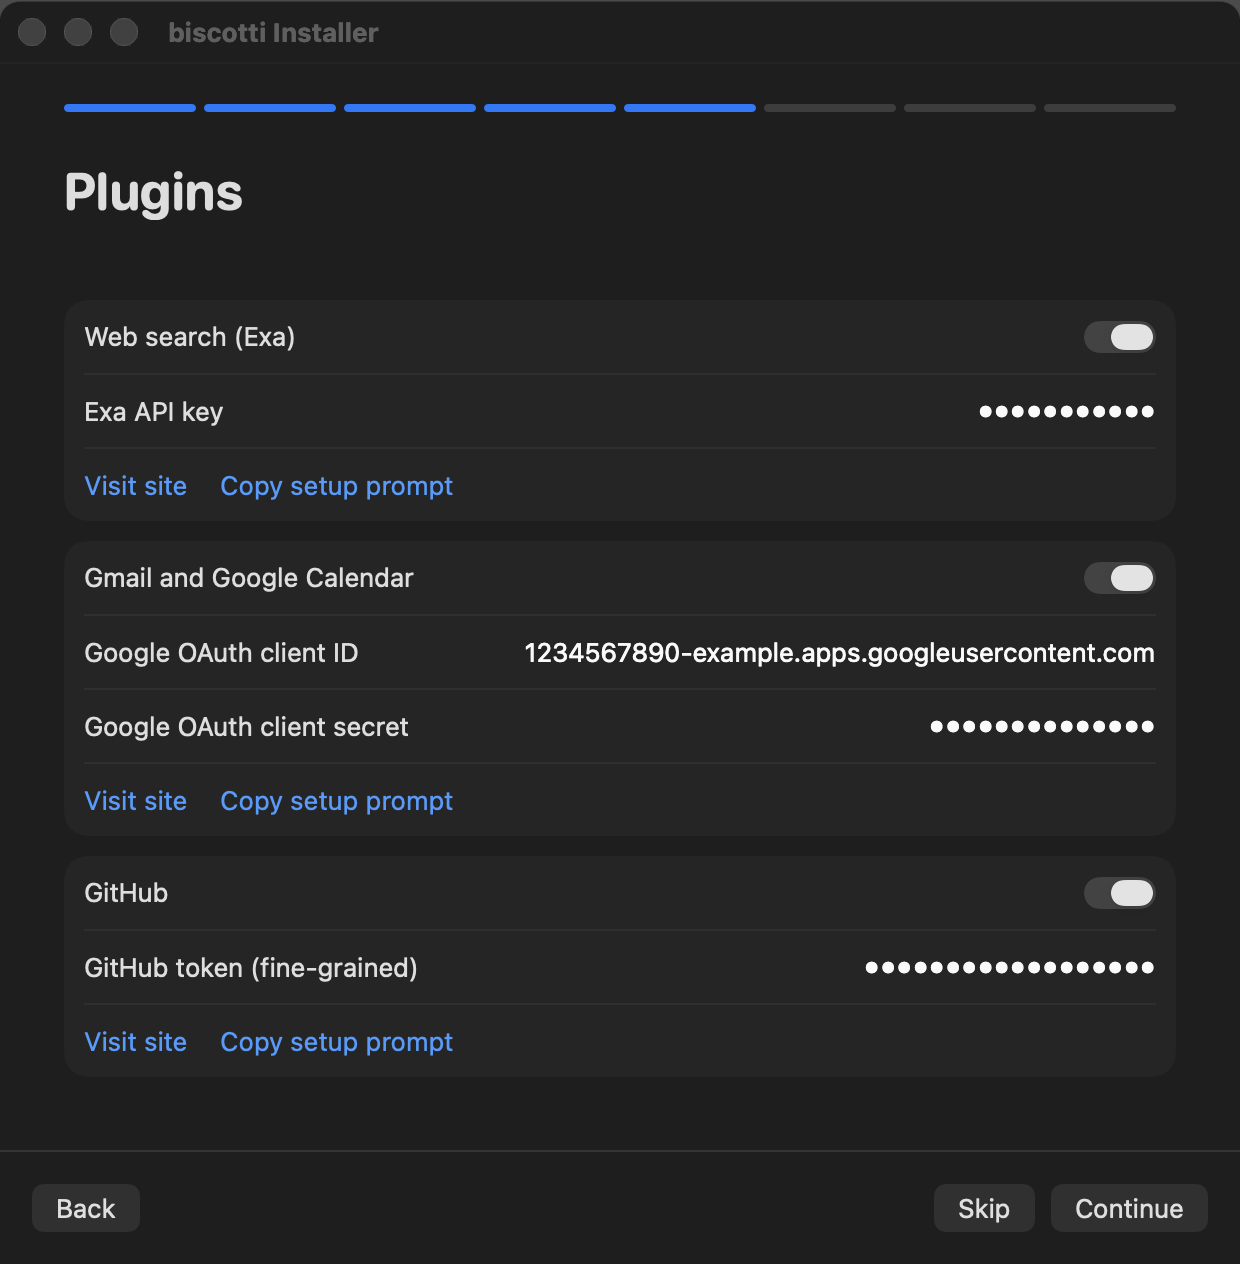
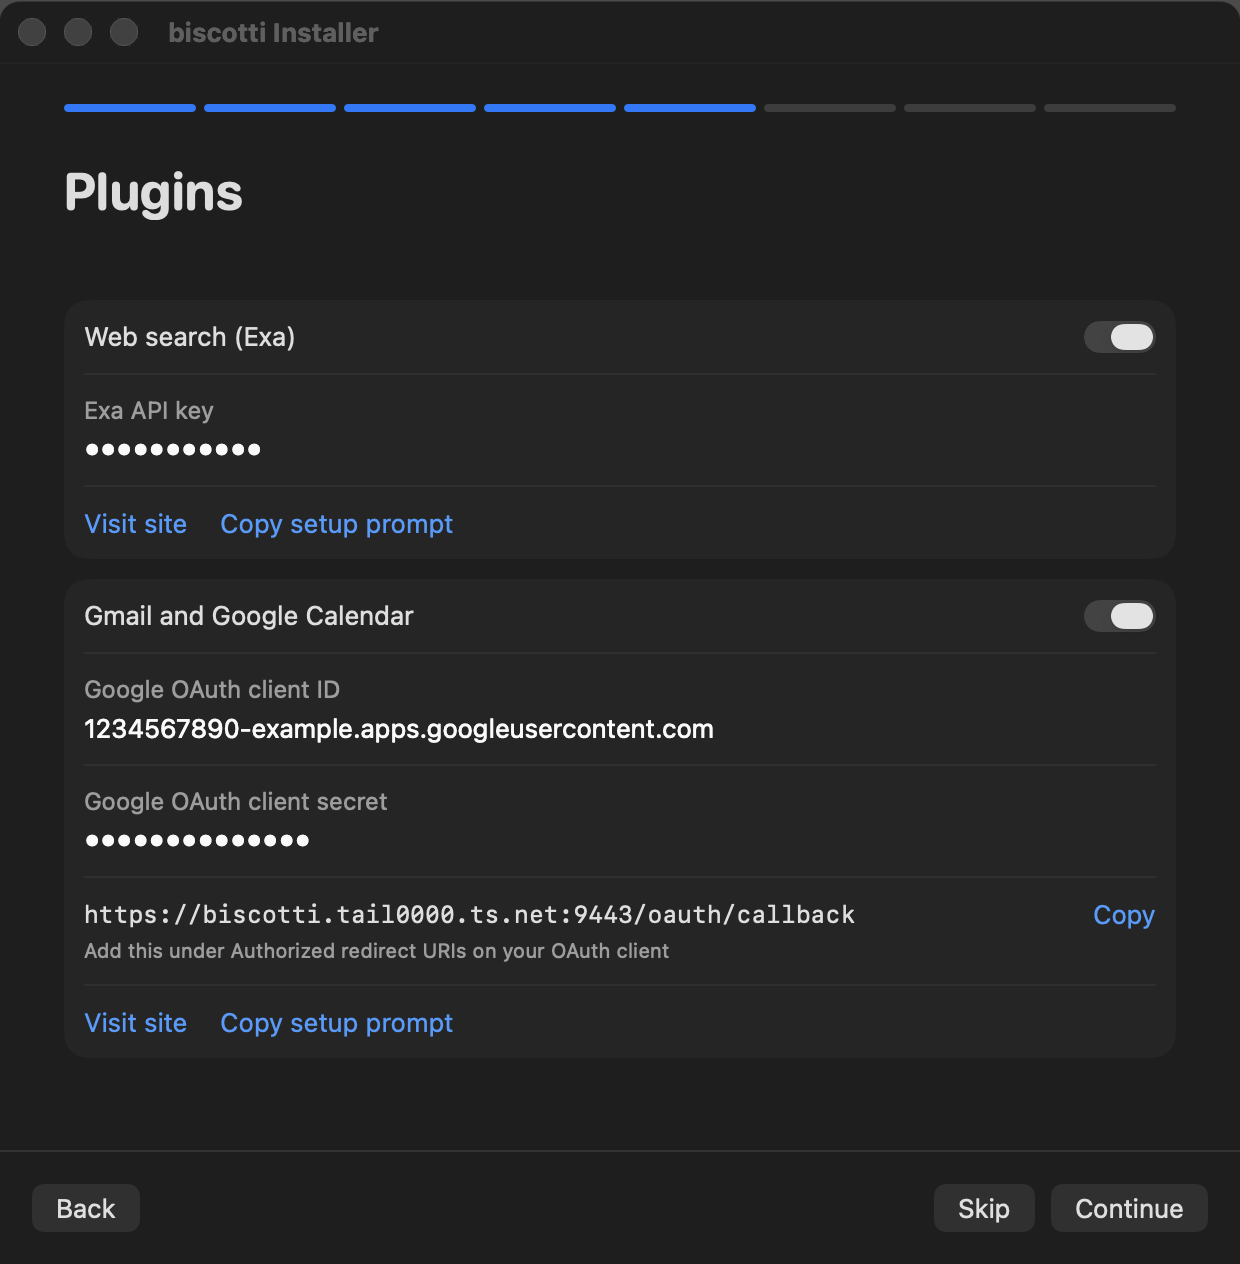
installer: fields type left to right; no email; natural typing gif

diff --git a/installers/setup/Sources/BiscottiInstaller/App.swift b/installers/setup/Sources/BiscottiInstaller/App.swift
@@ -65,12 +65,12 @@ enum Step {
 /// The files the app can open: an image or a public key.
 enum Import { case image, sshKey }
 
-/// The phone numbers and emails on the macOS "Me" card, once the user allows Contacts access.
-func meCard() async -> (phones: [String], emails: [String]) {
+/// The phone numbers on the macOS "Me" card, once the user allows Contacts access.
+func meCard() async -> [String] {
     let store = CNContactStore()
-    let keys = [CNContactPhoneNumbersKey, CNContactEmailAddressesKey] as [CNKeyDescriptor]
-    guard (try? await store.requestAccess(for: .contacts)) == true, let me = try? store.unifiedMeContactWithKeys(toFetch: keys) else { return ([], []) }
-    return (me.phoneNumbers.map(\.value.stringValue), me.emailAddresses.map { $0.value as String })
+    let keys = [CNContactPhoneNumbersKey] as [CNKeyDescriptor]
+    guard (try? await store.requestAccess(for: .contacts)) == true, let me = try? store.unifiedMeContactWithKeys(toFetch: keys) else { return [] }
+    return me.phoneNumbers.map(\.value.stringValue)
 }
 
 /// One step per screen: the target, the settings a few at a time, a review, then the target's own install steps.
@@ -87,7 +87,7 @@ struct InstallerView: View {
     @State private var downloadError: String?
     @State private var disks = removableDisks()
     @State private var disk: Disk?
-    @State private var me: (phones: [String], emails: [String]) = ([], [])
+    @State private var myPhones: [String] = []
     @State private var importing = false
     @State private var importTarget = Import.image
     @State private var pasting = false
@@ -233,7 +233,7 @@ struct InstallerView: View {
                     Link("Install Tailscale", destination: Tailscale.downloadMac)
                 }
             }
-            TextField("biscotti's name on your tailnet", text: $settings.tailscaleName)
+            field("biscotti's name on your tailnet", $settings.tailscaleName)
             LabeledContent("On your phone") {
                 if let phone {
                     Label(phone, systemImage: "checkmark.circle.fill")
@@ -274,14 +274,14 @@ struct InstallerView: View {
     private var wifi: some View {
         Form {
             HStack {
-                TextField("Network", text: $settings.wifiName)
+                field("Network", $settings.wifiName)
                 if !networks.isEmpty {
                     Menu("Saved") { ForEach(networks, id: \.self) { name in Button(name) { settings.wifiName = name } } }
                         .menuStyle(.borderlessButton).fixedSize()
                 }
             }
             HStack {
-                TextField("Password", text: $settings.wifiPassword)
+                field("Password", $settings.wifiPassword)
                 if settings.wifiPassword.isEmpty {
                     // Wi-Fi passwords live in the System keychain, so macOS asks for the Mac's password; cancel leaves typing.
                     Button("From Keychain") { settings.wifiPassword = settings.savedWifiPassword() ?? "" }
@@ -289,28 +289,26 @@ struct InstallerView: View {
                         .help("macOS will ask for your password")
                 }
             }
-            TextField("Country code", text: $settings.wifiCountry)
+            field("Country code", $settings.wifiCountry)
         }
         .settingsForm()
     }
 
     private var you: some View {
         Form {
-            if me.phones.count > 1 {
-                Picker("Your phone number", selection: $settings.phone) { ForEach(me.phones, id: \.self) { Text($0) } }
+            if myPhones.count > 1 {
+                Picker("Your phone number", selection: $settings.phone) { ForEach(myPhones, id: \.self) { Text($0) } }
             } else {
-                TextField("Your phone number", text: $settings.phone)
+                field("Your phone number", $settings.phone)
             }
-            TextField("Your email", text: $settings.email)
         }
         .settingsForm()
         .task {
             // Contacts only to fill an empty number, once; if access is denied, it's just typed.
             guard settings.phone.isEmpty, !askedContacts, !Self.noAutofill else { return }
             askedContacts = true
-            me = await meCard()
-            if settings.phone.isEmpty { settings.phone = me.phones.first ?? "" }
-            if settings.email.isEmpty { settings.email = me.emails.first ?? "" }
+            myPhones = await meCard()
+            if settings.phone.isEmpty { settings.phone = myPhones.first ?? "" }
         }
     }
 
@@ -319,8 +317,8 @@ struct InstallerView: View {
             Text("Because iMessage has no native API, biscotti texts you through Photon. You'll need to set up a Photon Spectrum project and get the keys.")
             serviceButtons("photon")
             Form {
-                TextField("Photon project ID", text: $settings.photonID)
-                SecureField("Photon project secret", text: $settings.photonSecret)
+                field("Photon project ID", $settings.photonID)
+                field("Photon project secret", $settings.photonSecret, secure: true)
             }
             .settingsForm()
         }
@@ -343,9 +341,9 @@ struct InstallerView: View {
                     .padding()
                 }
             Form {
-                TextField("Base URL", text: $settings.llmBaseURL, prompt: Text("https://ai-gateway.vercel.sh/v1"))
-                SecureField("API key", text: $settings.llmKey)
-                TextField("Model", text: $settings.model)
+                field("Base URL", $settings.llmBaseURL, prompt: "https://ai-gateway.vercel.sh/v1")
+                field("API key", $settings.llmKey, secure: true)
+                field("Model", $settings.model)
             }
             .settingsForm()
         }
@@ -371,10 +369,10 @@ struct InstallerView: View {
 
     @ViewBuilder private func pluginKeys(_ id: String) -> some View {
         switch id {
-        case "exa": SecureField("Exa API key", text: $settings.exaKey)
+        case "exa": field("Exa API key", $settings.exaKey, secure: true)
         case "google":
-            TextField("Google OAuth client ID", text: $settings.googleClientID)
-            SecureField("Google OAuth client secret", text: $settings.googleClientSecret)
+            field("Google OAuth client ID", $settings.googleClientID)
+            field("Google OAuth client secret", $settings.googleClientSecret, secure: true)
             if let redirect {
                 VStack(alignment: .leading, spacing: 4) {
                     HStack {
@@ -385,7 +383,7 @@ struct InstallerView: View {
                     Text("Add this under Authorized redirect URIs on your OAuth client").font(.caption).foregroundStyle(.secondary)
                 }
             }
-        case "github": SecureField("GitHub token (fine-grained)", text: $settings.githubToken)
+        case "github": field("GitHub token (fine-grained)", $settings.githubToken, secure: true)
         default: EmptyView()
         }
     }
@@ -400,7 +398,7 @@ struct InstallerView: View {
                 }
             }
             Form {
-                TextField("SSH public key", text: $settings.sshKey, axis: .vertical).lineLimit(3...6).font(.body.monospaced())
+                field("SSH public key", $settings.sshKey, multiline: true)
             }
             .settingsForm()
         }
@@ -500,8 +498,8 @@ struct InstallerView: View {
                 }
             }
             Form {
-                TextField("Access key ID", text: $awsKey)
-                SecureField("Secret access key", text: $awsSecret)
+                field("Access key ID", $awsKey)
+                field("Secret access key", $awsSecret, secure: true)
                 Picker("Region", selection: $region) { ForEach(AWS.regions, id: \.self) { Text($0) } }
             }
             .settingsForm()
@@ -727,4 +725,35 @@ struct InstallerView: View {
 extension View {
     /// Grouped forms inset their sections by 20 points; this lines them up with the headings.
     func settingsForm() -> some View { formStyle(.grouped).padding(.horizontal, -20) }
+}
+
+/// A form field with its label above, so typing runs left to right.
+@MainActor
+func field(_ label: String, _ text: Binding<String>, secure: Bool = false, multiline: Bool = false, prompt: String = "") -> some View {
+    VStack(alignment: .leading, spacing: 4) {
+        Text(label).font(.callout).foregroundStyle(.secondary)
+        Group {
+            if secure {
+                SecureField("", text: text, prompt: Text(prompt))
+            } else if multiline {
+                TextField("", text: text, prompt: Text(prompt), axis: .vertical).lineLimit(3...6).font(.body.monospaced())
+            } else {
+                TextField("", text: text, prompt: Text(prompt))
+            }
+        }
+        .textFieldStyle(.plain)
+        .labelsHidden()
+        .overlay(alignment: .leading) { if label == caretField { caret(after: text.wrappedValue, secure: secure) } }
+    }
+}
+
+/// For the setup GIF: `-caret "Network"` draws a text cursor in that field, which snapshots otherwise miss.
+private let caretField = UserDefaults.standard.string(forKey: "caret")
+
+private func caret(after text: String, secure: Bool) -> some View {
+    HStack(spacing: 1) {
+        // A secure field draws a bullet about 8 points wide per character.
+        if secure { Color.clear.frame(width: CGFloat(text.count) * 8, height: 1) } else { Text(text).hidden() }
+        Rectangle().fill(Color.accentColor).frame(width: 2, height: 18)
+    }
 }

diff --git a/installers/setup/Sources/BiscottiInstaller/Settings.swift b/installers/setup/Sources/BiscottiInstaller/Settings.swift
@@ -11,7 +11,6 @@ struct Settings {
     var sshKey = Settings.firstSSHKey()
     var tailscaleName = "biscotti"
     var phone = ""
-    var email = ""
     var llmBaseURL = ""
     var llmKey = ""
     var model = "deepseek/deepseek-v4.1-flash-1017-fast"
@@ -33,7 +32,7 @@ struct Settings {
     ]
 
     var hasWifi: Bool { !wifiName.isEmpty && !wifiPassword.isEmpty }
-    var hasOwner: Bool { !phone.isEmpty && !email.isEmpty }
+    var hasOwner: Bool { !phone.isEmpty }
     var hasPhoton: Bool { !photonID.isEmpty && !photonSecret.isEmpty }
     var hasAI: Bool { ![llmBaseURL, llmKey, model].contains { $0.isEmpty } }
     func hasKeys(_ plugin: String) -> Bool {
@@ -107,7 +106,6 @@ struct Settings {
         for (key, value) in pairs {
             switch key {
             case "OWNER": phone = value
-            case "OWNER_EMAIL": email = value
             case "LLM_BASE_URL": llmBaseURL = value
             case "LLM_API_KEY": llmKey = value
             case "MODEL": model = value
@@ -129,7 +127,7 @@ struct Settings {
     /// biscotti's `.env`.
     var env: String {
         [
-            ("OWNER", phone), ("OWNER_EMAIL", email), ("LLM_BASE_URL", llmBaseURL), ("LLM_API_KEY", llmKey), ("MODEL", model),
+            ("OWNER", phone), ("LLM_BASE_URL", llmBaseURL), ("LLM_API_KEY", llmKey), ("MODEL", model),
             ("SPECTRUM_PROJECT_ID", photonID), ("SPECTRUM_PROJECT_SECRET", photonSecret),
             ("EXA_API_KEY", exaKey), ("TZ", TimeZone.current.identifier), ("TS_HOSTNAME", tailscaleName),
             ("GOOGLE_CLIENT_ID", googleClientID), ("GOOGLE_CLIENT_SECRET", googleClientSecret), ("GITHUB_TOKEN", githubToken),
